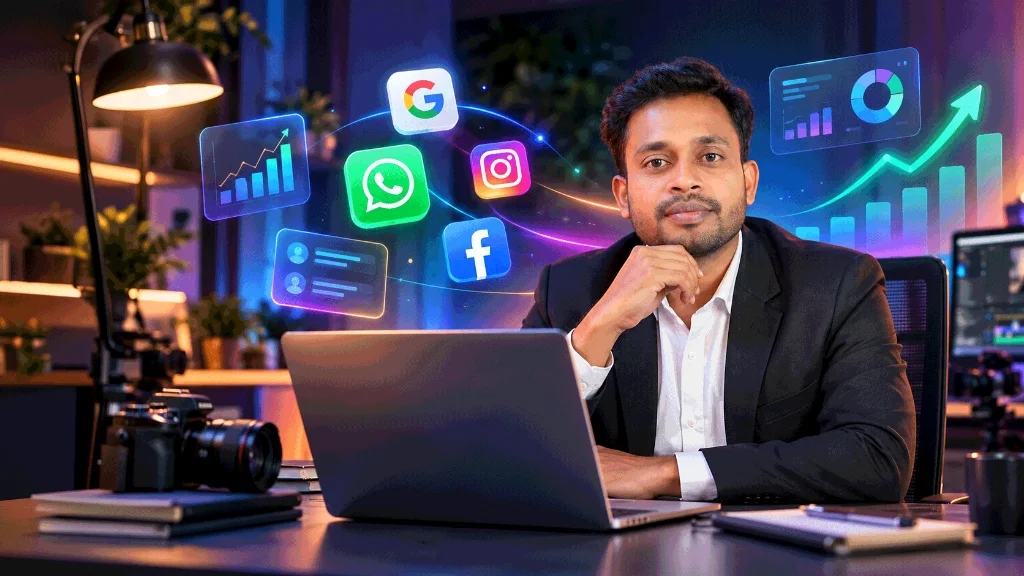
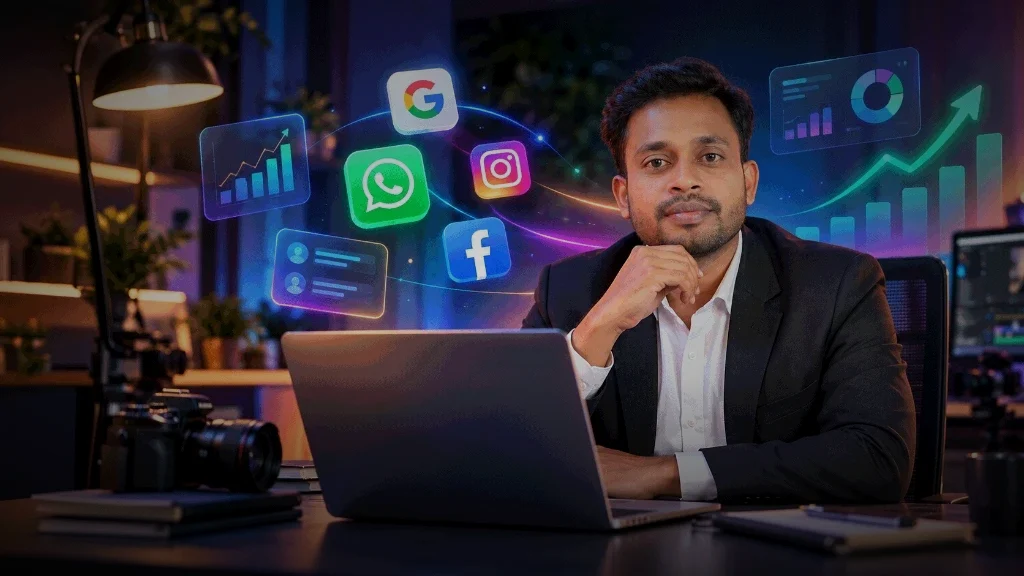
style(ai-digital-marketing): darken hero image and blend seamlessly with dark page aesthetic

diff --git a/courses/ai-digital-marketing/index.html b/courses/ai-digital-marketing/index.html
@@ -581,7 +581,7 @@ fbq('track', 'PageView');
                     rel="noopener noreferrer">YouTube · Free Courses</a>
             </details><a href="../../about-us/">About Us</a><a href="../../contact-us/">Contact</a>
         </nav>
-    </header><main id="main-content"><nav class="qa-breadcrumb" aria-label="Breadcrumb"><div class="container"><a href="https://quickartphotography.in/">Home</a><span aria-hidden="true"> / </span><a href="https://quickartphotography.in/courses/">Courses</a><span aria-hidden="true"> / </span><span>AI Digital Marketing Course in Siwan</span></div></nav><div hidden=""></div><section class="relative bg-ink text-white overflow-hidden qa-texture-hero"><div class="absolute inset-0"><picture class="w-full h-full"><source srcset="../../assets/course-ai-digital-marketing.webp" type="image/webp"><img src="../../assets/course-ai-digital-marketing.jpg" alt="Free AI Digital Marketing Course in Siwan Bihar - Quick Art Photography Academy" class="h-full w-full object-cover opacity-20 blur-sm" decoding="async" width="1024" height="576"></picture><div class="absolute inset-0 bg-gradient-to-b from-ink/80 via-ink/90 to-ink"></div><div class="absolute inset-0 bg-dark-radial"></div></div><div class="pointer-events-none absolute -top-20 -left-24 h-96 w-96 rounded-full bg-gold-500/20 blur-3xl"></div><div class="container relative py-16 md:py-24"><a class="qa-back-link" href="../../courses/"><svg xmlns="http://www.w3.org/2000/svg" width="24" height="24" fill="none" stroke="currentColor" stroke-width="2" stroke-linecap="round" stroke-linejoin="round" class="lucide lucide-arrow-left h-4 w-4" aria-hidden="true" viewbox="0 0 24 24"><path d="m12 19-7-7 7-7"></path><path d="M19 12H5"></path></svg> Back to all courses</a><div class="grid lg:grid-cols-12 gap-10 items-center mt-6"><div class="lg:col-span-7"><div class="inline-flex items-center gap-2 rounded-full bg-white/5 border border-white/10 px-3 py-1 text-[11px] font-semibold uppercase tracking-[0.16em] text-gold-300"><svg xmlns="http://www.w3.org/2000/svg" width="14" height="14" fill="none" stroke="currentColor" stroke-width="2" stroke-linecap="round" stroke-linejoin="round" class="lucide lucide-sparkles"><path d="M9.937 15.5A2 2 0 0 0 8.5 14.063l-6.135-1.582a.5.5 0 0 1 0-.962L8.5 9.936A2 2 0 0 0 9.937 8.5l1.582-6.135a.5.5 0 0 1 .963 0L14.063 8.5A2 2 0 0 0 15.5 9.937l6.135 1.581a.5.5 0 0 1 0 .964L15.5 14.063a2 2 0 0 0-1.437 1.437l-1.582 6.135a.5.5 0 0 1-.963 0z"></path><path d="M20 3v4"></path><path d="M22 5h-4"></path><path d="M4 17v2"></path><path d="M5 18H3"></path></svg> Future-proof growth marketing.</div><h1 class="mt-4 font-heading font-extrabold text-4xl sm:text-5xl lg:text-6xl leading-[1.05] tracking-[-0.03em]">AI Digital Marketing <span>Course in Siwan</span></h1><p class="mt-4 text-white/75 text-base sm:text-lg leading-relaxed max-w-2xl">Elevate your brand with our practical <strong>AI digital marketing course in Hindi</strong>. Attend our introductory <strong>free AI digital marketing course</strong> demo class and discover automated ad funnels, prompt copywriting, and social media lead generation in Siwan, Bihar.</p><div class="mt-7 flex flex-wrap gap-3"><a href="../../contact-us/" class="lp-btn-primary">⚡ Book Free Demo Class <svg xmlns="http://www.w3.org/2000/svg" width="20" height="20" fill="none" stroke="currentColor" stroke-width="2" stroke-linecap="round" stroke-linejoin="round" class="lucide lucide-arrow-right ml-1" aria-hidden="true" viewbox="0 0 24 24"><path d="M5 12h14"></path><path d="m12 5 7 7-7 7"></path></svg></a><a href="https://wa.me/919939800780?text=Hi%2C%20I%20want%20to%20know%20about%20the%20AI%20Digital%20Marketing%20Course" target="_blank" rel="noreferrer" class="lp-btn-secondary"><svg xmlns="http://www.w3.org/2000/svg" width="20" height="20" fill="none" stroke="currentColor" stroke-width="2" stroke-linecap="round" stroke-linejoin="round" class="lucide lucide-message-circle mr-1" aria-hidden="true" viewbox="0 0 24 24"><path d="M7.9 20A9 9 0 1 0 4 16.1L2 22Z"></path></svg> 💬 WhatsApp Enquiry / Demo</a></div><div class="qa-campus-trust-strip mt-6"><span>🏢 Studio Lab in Siwan</span><span>💻 Live Ad Budget Accounts</span><span>🤝 Mentorship by Anil Sharma</span><span>🏠 Free Outstation Hostel for Bihar Students</span></div></div><div class="lg:col-span-5 mt-8 lg:mt-0"><div class="relative rounded-3xl overflow-hidden border border-gold-500/35 bg-gradient-to-b from-white/10 to-white/5 p-2 shadow-2xl backdrop-blur-md group"><div class="absolute -top-12 -right-12 h-44 w-44 rounded-full bg-gold-500/20 blur-2xl pointer-events-none"></div><picture class="block rounded-2xl overflow-hidden"><source srcset="../../assets/course-ai-digital-marketing.webp" type="image/webp"><img src="../../assets/course-ai-digital-marketing.jpg" alt="Free AI Digital Marketing Course in Siwan Bihar - Quick Art Photography Academy" class="w-full h-auto object-cover rounded-2xl group-hover:scale-105 transition-transform duration-700 shadow-inner" width="1024" height="576" fetchpriority="high"></picture><div class="p-3.5 flex items-center justify-between text-xs"><div class="flex items-center gap-2 text-white font-semibold"><span class="h-2.5 w-2.5 rounded-full bg-emerald-400 animate-pulse"></span><span>Live AI Marketing Lab</span></div><span class="text-gold-300 font-bold bg-gold-500/15 border border-gold-500/30 px-3 py-1 rounded-full">Siwan Studio</span></div></div></div></div><div class="mt-10 grid grid-cols-2 md:grid-cols-4 gap-3 max-w-2xl"><div class="glass-dark rounded-2xl px-4 py-4 border border-white/10"><div class="font-heading font-extrabold text-lg text-gold-300">6 Weeks</div><div class="text-[11px] uppercase tracking-wider text-white/60 mt-0.5">Practical Track</div></div><div class="glass-dark rounded-2xl px-4 py-4 border border-white/10"><div class="font-heading font-extrabold text-lg text-gold-300">Live Campaigns</div><div class="text-[11px] uppercase tracking-wider text-white/60 mt-0.5">Ad Budget Practice</div></div><div class="glass-dark rounded-2xl px-4 py-4 border border-white/10"><div class="font-heading font-extrabold text-lg text-gold-300">Offline · Siwan</div><div class="text-[11px] uppercase tracking-wider text-white/60 mt-0.5">Campus Mode</div></div><div class="glass-dark rounded-2xl px-4 py-4 border border-white/10"><div class="font-heading font-extrabold text-lg text-gold-300">1,800+</div><div class="text-[11px] uppercase tracking-wider text-white/60 mt-0.5">Students trained</div></div></div></div></section><section class="bg-[#FAFAFA] py-24 md:py-28"><div class="container grid lg:grid-cols-3 gap-10"><div><div class="inline-flex items-center gap-2 rounded-full bg-gold-50 border border-gold-200 px-3.5 py-1 text-[11px] font-semibold uppercase tracking-[0.16em] text-gold-700"><span class="h-1.5 w-1.5 rounded-full bg-gold-500"></span> Highlights</div><h2 class="mt-5 font-heading font-extrabold text-3xl md:text-4xl leading-tight tracking-[-0.025em] text-ink">What you'll master</h2><p class="mt-4 text-black/60">Develop modern growth hacking skills through guided practical campaigns.</p><div class="mt-6 rounded-2xl bg-white border border-black/5 shadow-elegant p-5"><div class="flex items-center gap-2 text-gold-600"><svg xmlns="http://www.w3.org/2000/svg" width="24" height="24" fill="none" stroke="currentColor" stroke-width="2" stroke-linecap="round" stroke-linejoin="round" class="lucide lucide-star h-4 w-4 fill-current" aria-hidden="true" viewbox="0 0 24 24"><path d="M11.525 2.295a.53.53 0 0 1 .95 0l2.31 4.679a2.123 2.123 0 0 0 1.595 1.16l5.166.756a.53.53 0 0 1 .294.904l-3.736 3.638a2.123 2.123 0 0 0-.611 1.878l.882 5.14a.53.53 0 0 1-.771.56l-4.618-2.428a2.122 2.122 0 0 0-1.973 0L6.396 21.01a.53.53 0 0 1-.77-.56l.881-5.139a2.122 2.122 0 0 0-.611-1.879L2.16 9.795a.53.53 0 0 1 .294-.906l5.165-.755a2.122 2.122 0 0 0 1.597-1.16z"></path></svg><svg xmlns="http://www.w3.org/2000/svg" width="24" height="24" fill="none" stroke="currentColor" stroke-width="2" stroke-linecap="round" stroke-linejoin="round" class="lucide lucide-star h-4 w-4 fill-current" aria-hidden="true" viewbox="0 0 24 24"><path d="M11.525 2.295a.53.53 0 0 1 .95 0l2.31 4.679a2.123 2.123 0 0 0 1.595 1.16l5.166.756a.53.53 0 0 1 .294.904l-3.736 3.638a2.123 2.123 0 0 0-.611 1.878l.882 5.14a.53.53 0 0 1-.771.56l-4.618-2.428a2.122 2.122 0 0 0-1.973 0L6.396 21.01a.53.53 0 0 1-.77-.56l.881-5.139a2.122 2.122 0 0 0-.611-1.879L2.16 9.795a.53.53 0 0 1 .294-.906l5.165-.755a2.122 2.122 0 0 0 1.597-1.16z"></path></svg><svg xmlns="http://www.w3.org/2000/svg" width="24" height="24" fill="none" stroke="currentColor" stroke-width="2" stroke-linecap="round" stroke-linejoin="round" class="lucide lucide-star h-4 w-4 fill-current" aria-hidden="true" viewbox="0 0 24 24"><path d="M11.525 2.295a.53.53 0 0 1 .95 0l2.31 4.679a2.123 2.123 0 0 0 1.595 1.16l5.166.756a.53.53 0 0 1 .294.904l-3.736 3.638a2.123 2.123 0 0 0-.611 1.878l.882 5.14a.53.53 0 0 1-.771.56l-4.618-2.428a2.122 2.122 0 0 0-1.973 0L6.396 21.01a.53.53 0 0 1-.77-.56l.881-5.139a2.122 2.122 0 0 0-.611-1.879L2.16 9.795a.53.53 0 0 1 .294-.906l5.165-.755a2.122 2.122 0 0 0 1.597-1.16z"></path></svg><svg xmlns="http://www.w3.org/2000/svg" width="24" height="24" fill="none" stroke="currentColor" stroke-width="2" stroke-linecap="round" stroke-linejoin="round" class="lucide lucide-star h-4 w-4 fill-current" aria-hidden="true" viewbox="0 0 24 24"><path d="M11.525 2.295a.53.53 0 0 1 .95 0l2.31 4.679a2.123 2.123 0 0 0 1.595 1.16l5.166.756a.53.53 0 0 1 .294.904l-3.736 3.638a2.123 2.123 0 0 0-.611 1.878l.882 5.14a.53.53 0 0 1-.771.56l-4.618-2.428a2.122 2.122 0 0 0-1.973 0L6.396 21.01a.53.53 0 0 1-.77-.56l.881-5.139a2.122 2.122 0 0 0-.611-1.879L2.16 9.795a.53.53 0 0 1 .294-.906l5.165-.755a2.122 2.122 0 0 0 1.597-1.16z"></path></svg><svg xmlns="http://www.w3.org/2000/svg" width="24" height="24" fill="none" stroke="currentColor" stroke-width="2" stroke-linecap="round" stroke-linejoin="round" class="lucide lucide-star h-4 w-4 fill-current" aria-hidden="true" viewbox="0 0 24 24"><path d="M11.525 2.295a.53.53 0 0 1 .95 0l2.31 4.679a2.123 2.123 0 0 0 1.595 1.16l5.166.756a.53.53 0 0 1 .294.904l-3.736 3.638a2.123 2.123 0 0 0-.611 1.878l.882 5.14a.53.53 0 0 1-.771.56l-4.618-2.428a2.122 2.122 0 0 0-1.973 0L6.396 21.01a.53.53 0 0 1-.77-.56l.881-5.139a2.122 2.122 0 0 0-.611-1.879L2.16 9.795a.53.53 0 0 1 .294-.906l5.165-.755a2.122 2.122 0 0 0 1.597-1.16z"></path></svg></div><div class="mt-2 text-[13px] text-black/70">1,800+ students trained at Quick Art</div></div></div><div class="lg:col-span-2 grid sm:grid-cols-2 gap-3"><div class="flex items-start gap-3 rounded-2xl bg-white border border-black/5 p-5"><div class="h-9 w-9 rounded-xl bg-gold-gradient shadow-gold flex items-center justify-center shrink-0"><svg xmlns="http://www.w3.org/2000/svg" width="24" height="24" fill="none" stroke="currentColor" stroke-width="2" stroke-linecap="round" stroke-linejoin="round" class="lucide lucide-check h-5 w-5 text-black/80" aria-hidden="true" viewbox="0 0 24 24"><path d="M20 6 9 17l-5-5"></path></svg></div><div class="text-[14.5px] text-ink font-medium">Meta &amp; Instagram AI Ads</div></div><div class="flex items-start gap-3 rounded-2xl bg-white border border-black/5 p-5"><div class="h-9 w-9 rounded-xl bg-gold-gradient shadow-gold flex items-center justify-center shrink-0"><svg xmlns="http://www.w3.org/2000/svg" width="24" height="24" fill="none" stroke="currentColor" stroke-width="2" stroke-linecap="round" stroke-linejoin="round" class="lucide lucide-check h-5 w-5 text-black/80" aria-hidden="true" viewbox="0 0 24 24"><path d="M20 6 9 17l-5-5"></path></svg></div><div class="text-[14.5px] text-ink font-medium">ChatGPT Copywriting Prompts</div></div><div class="flex items-start gap-3 rounded-2xl bg-white border border-black/5 p-5"><div class="h-9 w-9 rounded-xl bg-gold-gradient shadow-gold flex items-center justify-center shrink-0"><svg xmlns="http://www.w3.org/2000/svg" width="24" height="24" fill="none" stroke="currentColor" stroke-width="2" stroke-linecap="round" stroke-linejoin="round" class="lucide lucide-check h-5 w-5 text-black/80" aria-hidden="true" viewbox="0 0 24 24"><path d="M20 6 9 17l-5-5"></path></svg></div><div class="text-[14.5px] text-ink font-medium">AI Viral Video Reel Creation</div></div><div class="flex items-start gap-3 rounded-2xl bg-white border border-black/5 p-5"><div class="h-9 w-9 rounded-xl bg-gold-gradient shadow-gold flex items-center justify-center shrink-0"><svg xmlns="http://www.w3.org/2000/svg" width="24" height="24" fill="none" stroke="currentColor" stroke-width="2" stroke-linecap="round" stroke-linejoin="round" class="lucide lucide-check h-5 w-5 text-black/80" aria-hidden="true" viewbox="0 0 24 24"><path d="M20 6 9 17l-5-5"></path></svg></div><div class="text-[14.5px] text-ink font-medium">Google Ads &amp; Local Map SEO</div></div><div class="flex items-start gap-3 rounded-2xl bg-white border border-black/5 p-5"><div class="h-9 w-9 rounded-xl bg-gold-gradient shadow-gold flex items-center justify-center shrink-0"><svg xmlns="http://www.w3.org/2000/svg" width="24" height="24" fill="none" stroke="currentColor" stroke-width="2" stroke-linecap="round" stroke-linejoin="round" class="lucide lucide-check h-5 w-5 text-black/80" aria-hidden="true" viewbox="0 0 24 24"><path d="M20 6 9 17l-5-5"></path></svg></div><div class="text-[14.5px] text-ink font-medium">WhatsApp Automation Funnels</div></div><div class="flex items-start gap-3 rounded-2xl bg-white border border-black/5 p-5"><div class="h-9 w-9 rounded-xl bg-gold-gradient shadow-gold flex items-center justify-center shrink-0"><svg xmlns="http://www.w3.org/2000/svg" width="24" height="24" fill="none" stroke="currentColor" stroke-width="2" stroke-linecap="round" stroke-linejoin="round" class="lucide lucide-check h-5 w-5 text-black/80" aria-hidden="true" viewbox="0 0 24 24"><path d="M20 6 9 17l-5-5"></path></svg></div><div class="text-[14.5px] text-ink font-medium">Client Acquisition &amp; High Ticket Sales</div></div></div></div></section><section class="qa-section qa-light" id="curriculum"><div class="container"><p class="qa-kicker">CURRICULUM MODULES</p><h2>Your practical marketing learning path.</h2><p class="qa-intro">Hands-on campaign building designed for business owners, creators, photographers, and career aspirants.</p><div class="qa-roadmap"><article class="qa-road-card"><h3>Meta Ads &amp; Social Growth</h3><ul><li>Audience segmentation &amp; interest targeting</li><li>High-CTR ad creative generation with AI</li><li>Retargeting custom &amp; lookalike audiences</li></ul></article><article class="qa-road-card"><h3>AI Copywriting &amp; Content</h3><ul><li>Prompt engineering for sales copy &amp; hooks</li><li>Automated reel scripts &amp; carousel graphics</li><li>Search engine optimization for local leads</li></ul></article><article class="qa-road-card"><h3>Sales Funnels &amp; CRM</h3><ul><li>Automated WhatsApp business workflows</li><li>Lead capture pages &amp; portfolio presentation</li><li>Closing high-paying client contracts</li></ul></article></div><div class="mt-10 rounded-2xl bg-gradient-to-br from-[#181c2a] to-[#0f121d] border border-gold-500/35 p-6 max-w-3xl mx-auto text-center shadow-xl relative overflow-hidden">
+    </header><main id="main-content"><nav class="qa-breadcrumb" aria-label="Breadcrumb"><div class="container"><a href="https://quickartphotography.in/">Home</a><span aria-hidden="true"> / </span><a href="https://quickartphotography.in/courses/">Courses</a><span aria-hidden="true"> / </span><span>AI Digital Marketing Course in Siwan</span></div></nav><div hidden=""></div><section class="relative bg-[#0a0b0e] text-white overflow-hidden qa-texture-hero"><div class="absolute inset-0"><picture class="w-full h-full"><source srcset="../../assets/course-ai-digital-marketing.webp" type="image/webp"><img src="../../assets/course-ai-digital-marketing.jpg" alt="Free AI Digital Marketing Course in Siwan Bihar - Quick Art Photography Academy" class="h-full w-full object-cover opacity-15 blur-md brightness-50 contrast-125" decoding="async" width="1024" height="576"></picture><div class="absolute inset-0 bg-gradient-to-b from-[#0a0b0e]/85 via-[#0a0b0e]/92 to-[#0a0b0e]"></div><div class="absolute inset-0 bg-dark-radial"></div></div><div class="pointer-events-none absolute -top-20 -left-24 h-96 w-96 rounded-full bg-gold-500/15 blur-3xl"></div><div class="container relative py-16 md:py-24"><a class="qa-back-link" href="../../courses/"><svg xmlns="http://www.w3.org/2000/svg" width="24" height="24" fill="none" stroke="currentColor" stroke-width="2" stroke-linecap="round" stroke-linejoin="round" class="lucide lucide-arrow-left h-4 w-4" aria-hidden="true" viewbox="0 0 24 24"><path d="m12 19-7-7 7-7"></path><path d="M19 12H5"></path></svg> Back to all courses</a><div class="grid lg:grid-cols-12 gap-10 items-center mt-6"><div class="lg:col-span-7"><div class="inline-flex items-center gap-2 rounded-full bg-white/5 border border-white/10 px-3 py-1 text-[11px] font-semibold uppercase tracking-[0.16em] text-gold-300"><svg xmlns="http://www.w3.org/2000/svg" width="14" height="14" fill="none" stroke="currentColor" stroke-width="2" stroke-linecap="round" stroke-linejoin="round" class="lucide lucide-sparkles"><path d="M9.937 15.5A2 2 0 0 0 8.5 14.063l-6.135-1.582a.5.5 0 0 1 0-.962L8.5 9.936A2 2 0 0 0 9.937 8.5l1.582-6.135a.5.5 0 0 1 .963 0L14.063 8.5A2 2 0 0 0 15.5 9.937l6.135 1.581a.5.5 0 0 1 0 .964L15.5 14.063a2 2 0 0 0-1.437 1.437l-1.582 6.135a.5.5 0 0 1-.963 0z"></path><path d="M20 3v4"></path><path d="M22 5h-4"></path><path d="M4 17v2"></path><path d="M5 18H3"></path></svg> Future-proof growth marketing.</div><h1 class="mt-4 font-heading font-extrabold text-4xl sm:text-5xl lg:text-6xl leading-[1.05] tracking-[-0.03em]">AI Digital Marketing <span>Course in Siwan</span></h1><p class="mt-4 text-white/75 text-base sm:text-lg leading-relaxed max-w-2xl">Elevate your brand with our practical <strong>AI digital marketing course in Hindi</strong>. Attend our introductory <strong>free AI digital marketing course</strong> demo class and discover automated ad funnels, prompt copywriting, and social media lead generation in Siwan, Bihar.</p><div class="mt-7 flex flex-wrap gap-3"><a href="../../contact-us/" class="lp-btn-primary">⚡ Book Free Demo Class <svg xmlns="http://www.w3.org/2000/svg" width="20" height="20" fill="none" stroke="currentColor" stroke-width="2" stroke-linecap="round" stroke-linejoin="round" class="lucide lucide-arrow-right ml-1" aria-hidden="true" viewbox="0 0 24 24"><path d="M5 12h14"></path><path d="m12 5 7 7-7 7"></path></svg></a><a href="https://wa.me/919939800780?text=Hi%2C%20I%20want%20to%20know%20about%20the%20AI%20Digital%20Marketing%20Course" target="_blank" rel="noreferrer" class="lp-btn-secondary"><svg xmlns="http://www.w3.org/2000/svg" width="20" height="20" fill="none" stroke="currentColor" stroke-width="2" stroke-linecap="round" stroke-linejoin="round" class="lucide lucide-message-circle mr-1" aria-hidden="true" viewbox="0 0 24 24"><path d="M7.9 20A9 9 0 1 0 4 16.1L2 22Z"></path></svg> 💬 WhatsApp Enquiry / Demo</a></div><div class="qa-campus-trust-strip mt-6"><span>🏢 Studio Lab in Siwan</span><span>💻 Live Ad Budget Accounts</span><span>🤝 Mentorship by Anil Sharma</span><span>🏠 Free Outstation Hostel for Bihar Students</span></div></div><div class="lg:col-span-5 mt-8 lg:mt-0"><div class="relative rounded-3xl overflow-hidden border border-gold-500/25 bg-[#0e1015]/90 p-2.5 shadow-2xl backdrop-blur-xl group"><div class="absolute -top-12 -right-12 h-44 w-44 rounded-full bg-gold-500/10 blur-2xl pointer-events-none"></div><div class="relative rounded-2xl overflow-hidden"><picture class="block"><source srcset="../../assets/course-ai-digital-marketing.webp" type="image/webp"><img src="../../assets/course-ai-digital-marketing.jpg" alt="Free AI Digital Marketing Course in Siwan Bihar - Quick Art Photography Academy" class="w-full h-auto object-cover rounded-2xl group-hover:scale-105 transition-transform duration-700 brightness-90 contrast-105 shadow-inner" width="1024" height="576" fetchpriority="high"></picture><div class="absolute inset-0 bg-gradient-to-t from-[#0e1015] via-transparent to-black/20 pointer-events-none"></div><div class="absolute inset-0 ring-1 ring-inset ring-white/10 rounded-2xl pointer-events-none"></div></div><div class="p-3.5 flex items-center justify-between text-xs"><div class="flex items-center gap-2 text-slate-200 font-semibold"><span class="h-2 w-2 rounded-full bg-emerald-400 animate-pulse"></span><span>Live AI Marketing Lab</span></div><span class="text-gold-300 font-bold bg-gold-500/10 border border-gold-500/25 px-3 py-1 rounded-full text-[11px] uppercase tracking-wider">Siwan Studio</span></div></div></div></div><div class="mt-10 grid grid-cols-2 md:grid-cols-4 gap-3 max-w-2xl"><div class="glass-dark rounded-2xl px-4 py-4 border border-white/10"><div class="font-heading font-extrabold text-lg text-gold-300">6 Weeks</div><div class="text-[11px] uppercase tracking-wider text-white/60 mt-0.5">Practical Track</div></div><div class="glass-dark rounded-2xl px-4 py-4 border border-white/10"><div class="font-heading font-extrabold text-lg text-gold-300">Live Campaigns</div><div class="text-[11px] uppercase tracking-wider text-white/60 mt-0.5">Ad Budget Practice</div></div><div class="glass-dark rounded-2xl px-4 py-4 border border-white/10"><div class="font-heading font-extrabold text-lg text-gold-300">Offline · Siwan</div><div class="text-[11px] uppercase tracking-wider text-white/60 mt-0.5">Campus Mode</div></div><div class="glass-dark rounded-2xl px-4 py-4 border border-white/10"><div class="font-heading font-extrabold text-lg text-gold-300">1,800+</div><div class="text-[11px] uppercase tracking-wider text-white/60 mt-0.5">Students trained</div></div></div></div></section><section class="bg-[#FAFAFA] py-24 md:py-28"><div class="container grid lg:grid-cols-3 gap-10"><div><div class="inline-flex items-center gap-2 rounded-full bg-gold-50 border border-gold-200 px-3.5 py-1 text-[11px] font-semibold uppercase tracking-[0.16em] text-gold-700"><span class="h-1.5 w-1.5 rounded-full bg-gold-500"></span> Highlights</div><h2 class="mt-5 font-heading font-extrabold text-3xl md:text-4xl leading-tight tracking-[-0.025em] text-ink">What you'll master</h2><p class="mt-4 text-black/60">Develop modern growth hacking skills through guided practical campaigns.</p><div class="mt-6 rounded-2xl bg-white border border-black/5 shadow-elegant p-5"><div class="flex items-center gap-2 text-gold-600"><svg xmlns="http://www.w3.org/2000/svg" width="24" height="24" fill="none" stroke="currentColor" stroke-width="2" stroke-linecap="round" stroke-linejoin="round" class="lucide lucide-star h-4 w-4 fill-current" aria-hidden="true" viewbox="0 0 24 24"><path d="M11.525 2.295a.53.53 0 0 1 .95 0l2.31 4.679a2.123 2.123 0 0 0 1.595 1.16l5.166.756a.53.53 0 0 1 .294.904l-3.736 3.638a2.123 2.123 0 0 0-.611 1.878l.882 5.14a.53.53 0 0 1-.771.56l-4.618-2.428a2.122 2.122 0 0 0-1.973 0L6.396 21.01a.53.53 0 0 1-.77-.56l.881-5.139a2.122 2.122 0 0 0-.611-1.879L2.16 9.795a.53.53 0 0 1 .294-.906l5.165-.755a2.122 2.122 0 0 0 1.597-1.16z"></path></svg><svg xmlns="http://www.w3.org/2000/svg" width="24" height="24" fill="none" stroke="currentColor" stroke-width="2" stroke-linecap="round" stroke-linejoin="round" class="lucide lucide-star h-4 w-4 fill-current" aria-hidden="true" viewbox="0 0 24 24"><path d="M11.525 2.295a.53.53 0 0 1 .95 0l2.31 4.679a2.123 2.123 0 0 0 1.595 1.16l5.166.756a.53.53 0 0 1 .294.904l-3.736 3.638a2.123 2.123 0 0 0-.611 1.878l.882 5.14a.53.53 0 0 1-.771.56l-4.618-2.428a2.122 2.122 0 0 0-1.973 0L6.396 21.01a.53.53 0 0 1-.77-.56l.881-5.139a2.122 2.122 0 0 0-.611-1.879L2.16 9.795a.53.53 0 0 1 .294-.906l5.165-.755a2.122 2.122 0 0 0 1.597-1.16z"></path></svg><svg xmlns="http://www.w3.org/2000/svg" width="24" height="24" fill="none" stroke="currentColor" stroke-width="2" stroke-linecap="round" stroke-linejoin="round" class="lucide lucide-star h-4 w-4 fill-current" aria-hidden="true" viewbox="0 0 24 24"><path d="M11.525 2.295a.53.53 0 0 1 .95 0l2.31 4.679a2.123 2.123 0 0 0 1.595 1.16l5.166.756a.53.53 0 0 1 .294.904l-3.736 3.638a2.123 2.123 0 0 0-.611 1.878l.882 5.14a.53.53 0 0 1-.771.56l-4.618-2.428a2.122 2.122 0 0 0-1.973 0L6.396 21.01a.53.53 0 0 1-.77-.56l.881-5.139a2.122 2.122 0 0 0-.611-1.879L2.16 9.795a.53.53 0 0 1 .294-.906l5.165-.755a2.122 2.122 0 0 0 1.597-1.16z"></path></svg><svg xmlns="http://www.w3.org/2000/svg" width="24" height="24" fill="none" stroke="currentColor" stroke-width="2" stroke-linecap="round" stroke-linejoin="round" class="lucide lucide-star h-4 w-4 fill-current" aria-hidden="true" viewbox="0 0 24 24"><path d="M11.525 2.295a.53.53 0 0 1 .95 0l2.31 4.679a2.123 2.123 0 0 0 1.595 1.16l5.166.756a.53.53 0 0 1 .294.904l-3.736 3.638a2.123 2.123 0 0 0-.611 1.878l.882 5.14a.53.53 0 0 1-.771.56l-4.618-2.428a2.122 2.122 0 0 0-1.973 0L6.396 21.01a.53.53 0 0 1-.77-.56l.881-5.139a2.122 2.122 0 0 0-.611-1.879L2.16 9.795a.53.53 0 0 1 .294-.906l5.165-.755a2.122 2.122 0 0 0 1.597-1.16z"></path></svg><svg xmlns="http://www.w3.org/2000/svg" width="24" height="24" fill="none" stroke="currentColor" stroke-width="2" stroke-linecap="round" stroke-linejoin="round" class="lucide lucide-star h-4 w-4 fill-current" aria-hidden="true" viewbox="0 0 24 24"><path d="M11.525 2.295a.53.53 0 0 1 .95 0l2.31 4.679a2.123 2.123 0 0 0 1.595 1.16l5.166.756a.53.53 0 0 1 .294.904l-3.736 3.638a2.123 2.123 0 0 0-.611 1.878l.882 5.14a.53.53 0 0 1-.771.56l-4.618-2.428a2.122 2.122 0 0 0-1.973 0L6.396 21.01a.53.53 0 0 1-.77-.56l.881-5.139a2.122 2.122 0 0 0-.611-1.879L2.16 9.795a.53.53 0 0 1 .294-.906l5.165-.755a2.122 2.122 0 0 0 1.597-1.16z"></path></svg></div><div class="mt-2 text-[13px] text-black/70">1,800+ students trained at Quick Art</div></div></div><div class="lg:col-span-2 grid sm:grid-cols-2 gap-3"><div class="flex items-start gap-3 rounded-2xl bg-white border border-black/5 p-5"><div class="h-9 w-9 rounded-xl bg-gold-gradient shadow-gold flex items-center justify-center shrink-0"><svg xmlns="http://www.w3.org/2000/svg" width="24" height="24" fill="none" stroke="currentColor" stroke-width="2" stroke-linecap="round" stroke-linejoin="round" class="lucide lucide-check h-5 w-5 text-black/80" aria-hidden="true" viewbox="0 0 24 24"><path d="M20 6 9 17l-5-5"></path></svg></div><div class="text-[14.5px] text-ink font-medium">Meta &amp; Instagram AI Ads</div></div><div class="flex items-start gap-3 rounded-2xl bg-white border border-black/5 p-5"><div class="h-9 w-9 rounded-xl bg-gold-gradient shadow-gold flex items-center justify-center shrink-0"><svg xmlns="http://www.w3.org/2000/svg" width="24" height="24" fill="none" stroke="currentColor" stroke-width="2" stroke-linecap="round" stroke-linejoin="round" class="lucide lucide-check h-5 w-5 text-black/80" aria-hidden="true" viewbox="0 0 24 24"><path d="M20 6 9 17l-5-5"></path></svg></div><div class="text-[14.5px] text-ink font-medium">ChatGPT Copywriting Prompts</div></div><div class="flex items-start gap-3 rounded-2xl bg-white border border-black/5 p-5"><div class="h-9 w-9 rounded-xl bg-gold-gradient shadow-gold flex items-center justify-center shrink-0"><svg xmlns="http://www.w3.org/2000/svg" width="24" height="24" fill="none" stroke="currentColor" stroke-width="2" stroke-linecap="round" stroke-linejoin="round" class="lucide lucide-check h-5 w-5 text-black/80" aria-hidden="true" viewbox="0 0 24 24"><path d="M20 6 9 17l-5-5"></path></svg></div><div class="text-[14.5px] text-ink font-medium">AI Viral Video Reel Creation</div></div><div class="flex items-start gap-3 rounded-2xl bg-white border border-black/5 p-5"><div class="h-9 w-9 rounded-xl bg-gold-gradient shadow-gold flex items-center justify-center shrink-0"><svg xmlns="http://www.w3.org/2000/svg" width="24" height="24" fill="none" stroke="currentColor" stroke-width="2" stroke-linecap="round" stroke-linejoin="round" class="lucide lucide-check h-5 w-5 text-black/80" aria-hidden="true" viewbox="0 0 24 24"><path d="M20 6 9 17l-5-5"></path></svg></div><div class="text-[14.5px] text-ink font-medium">Google Ads &amp; Local Map SEO</div></div><div class="flex items-start gap-3 rounded-2xl bg-white border border-black/5 p-5"><div class="h-9 w-9 rounded-xl bg-gold-gradient shadow-gold flex items-center justify-center shrink-0"><svg xmlns="http://www.w3.org/2000/svg" width="24" height="24" fill="none" stroke="currentColor" stroke-width="2" stroke-linecap="round" stroke-linejoin="round" class="lucide lucide-check h-5 w-5 text-black/80" aria-hidden="true" viewbox="0 0 24 24"><path d="M20 6 9 17l-5-5"></path></svg></div><div class="text-[14.5px] text-ink font-medium">WhatsApp Automation Funnels</div></div><div class="flex items-start gap-3 rounded-2xl bg-white border border-black/5 p-5"><div class="h-9 w-9 rounded-xl bg-gold-gradient shadow-gold flex items-center justify-center shrink-0"><svg xmlns="http://www.w3.org/2000/svg" width="24" height="24" fill="none" stroke="currentColor" stroke-width="2" stroke-linecap="round" stroke-linejoin="round" class="lucide lucide-check h-5 w-5 text-black/80" aria-hidden="true" viewbox="0 0 24 24"><path d="M20 6 9 17l-5-5"></path></svg></div><div class="text-[14.5px] text-ink font-medium">Client Acquisition &amp; High Ticket Sales</div></div></div></div></section><section class="qa-section qa-light" id="curriculum"><div class="container"><p class="qa-kicker">CURRICULUM MODULES</p><h2>Your practical marketing learning path.</h2><p class="qa-intro">Hands-on campaign building designed for business owners, creators, photographers, and career aspirants.</p><div class="qa-roadmap"><article class="qa-road-card"><h3>Meta Ads &amp; Social Growth</h3><ul><li>Audience segmentation &amp; interest targeting</li><li>High-CTR ad creative generation with AI</li><li>Retargeting custom &amp; lookalike audiences</li></ul></article><article class="qa-road-card"><h3>AI Copywriting &amp; Content</h3><ul><li>Prompt engineering for sales copy &amp; hooks</li><li>Automated reel scripts &amp; carousel graphics</li><li>Search engine optimization for local leads</li></ul></article><article class="qa-road-card"><h3>Sales Funnels &amp; CRM</h3><ul><li>Automated WhatsApp business workflows</li><li>Lead capture pages &amp; portfolio presentation</li><li>Closing high-paying client contracts</li></ul></article></div><div class="mt-10 rounded-2xl bg-gradient-to-br from-[#181c2a] to-[#0f121d] border border-gold-500/35 p-6 max-w-3xl mx-auto text-center shadow-xl relative overflow-hidden">
 <div class="inline-flex items-center gap-2 px-3 py-1 rounded-full bg-gold-500/15 border border-gold-500/35 text-gold-300 text-[11px] font-bold uppercase tracking-wider mb-3">
 ⭐ Free Starter Resources
 </div>
